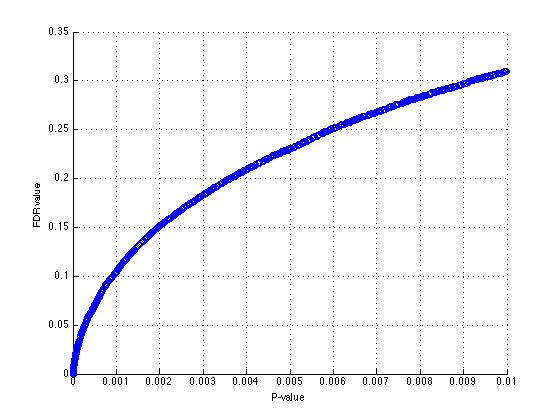
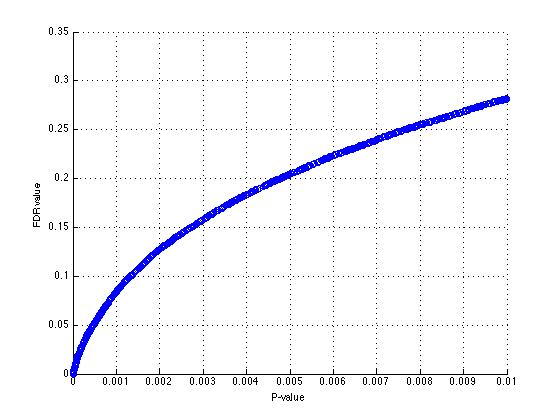
Matlab tutorial update

Changed region(s): [[0.4857, 0.1548, 0.9107, 0.4333], [0.1214, 0.4643, 0.3946, 0.8667], [0.3643, 0.3714, 0.4857, 0.4952]]

diff --git a/html/kruX_tutorial_matlab.html b/html/kruX_tutorial_matlab.html
@@ -6,7 +6,7 @@
    <!--
 This HTML was auto-generated from MATLAB code.
 To make changes, update the MATLAB code and republish this document.
-      --><title>kruX Tutorial</title><meta name="generator" content="MATLAB 8.0"><link rel="schema.DC" href="http://purl.org/dc/elements/1.1/"><meta name="DC.date" content="2013-06-21"><meta name="DC.source" content="kruX_tutorial_matlab.m"><style type="text/css">
+      --><title>kruX Tutorial</title><meta name="generator" content="MATLAB 8.0"><link rel="schema.DC" href="http://purl.org/dc/elements/1.1/"><meta name="DC.date" content="2013-06-22"><meta name="DC.source" content="kruX_tutorial_matlab.m"><style type="text/css">
 html,body,div,span,applet,object,iframe,h1,h2,h3,h4,h5,h6,p,blockquote,pre,a,abbr,acronym,address,big,cite,code,del,dfn,em,font,img,ins,kbd,q,s,samp,small,strike,strong,sub,sup,tt,var,b,u,i,center,dl,dt,dd,ol,ul,li,fieldset,form,label,legend,table,caption,tbody,tfoot,thead,tr,th,td{margin:0;padding:0;border:0;outline:0;font-size:100%;vertical-align:baseline;background:transparent}body{line-height:1}ol,ul{list-style:none}blockquote,q{quotes:none}blockquote:before,blockquote:after,q:before,q:after{content:'';content:none}:focus{outine:0}ins{text-decoration:none}del{text-decoration:line-through}table{border-collapse:collapse;border-spacing:0}
 
 html { min-height:100%; margin-bottom:1px; }
@@ -65,16 +65,22 @@ table td { padding:7px 5px; text-align:left; vertical-align:top; border:1px soli
 
 
 
-  </style></head><body><div class="content"><h1>kruX Tutorial</h1><!--introduction--><p>This webpage and its associated m-script (<tt>kruX_tutorial_matlab.m</tt>) illustrate the various features of kruX. Please make sure that you've added the folder were you downloaded the kruX source code to your <a href="http://www.mathworks.co.uk/help/matlab/ref/addpath.html">Matlab search path</a> before you attempt to run any of the code that follows.</p><!--/introduction--><h2>Contents</h2><div><ul><li><a href="#1">Data import</a></li><li><a href="#4">Testing all marker - gene combinations at once</a></li><li><a href="#10">Sliced data</a></li><li><a href="#15">Empirical FDR correction</a></li><li><a href="#24">kruX is exact</a></li><li><a href="#27">kruX handles missing data</a></li><li><a href="#32">kruX is fast</a></li><li><a href="#37">Goodbye</a></li></ul></div><h2>Data import<a name="1"></a></h2><p>We use Matlab's built-in function to import data. This can also be done via the GUI if you prefer.</p><p>Gene expression data</p><pre class="codeinput">dat = importdata(<span class="string">'kruX_testData_expression.txt'</span>);
+  </style></head><body><div class="content"><h1>kruX Tutorial</h1><!--introduction--><p>This webpage and its associated m-script (<tt>kruX_tutorial_matlab.m</tt>) illustrate the various features of kruX. Please make sure that you've added the folder were you downloaded the kruX source code to your <a href="http://www.mathworks.co.uk/help/matlab/ref/addpath.html">Matlab search path</a> before you attempt to run any of the code that follows.</p><!--/introduction--><h2>Contents</h2><div><ul><li><a href="#1">Data import</a></li><li><a href="#5">Testing all marker - gene combinations at once</a></li><li><a href="#12">Sliced data</a></li><li><a href="#17">Empirical FDR correction</a></li><li><a href="#27">kruX is exact</a></li><li><a href="#30">kruX handles missing data</a></li><li><a href="#36">kruX is fast</a></li><li><a href="#41">Goodbye</a></li></ul></div><h2>Data import<a name="1"></a></h2><p>kruX expects expression and genotype data in the form of numeric arrays where rows represent genes (or more generally any kind of continuous variables) or genetic markers (or more generally any kind of discrete grouping variables), and columns represent samples. Needless to say, it is imperative that samples are ordered identically in both expression and genotype data matrices. A set of test data in plain text format is included with kruX. We use Matlab's built-in function to import these data (this can also be done via the GUI if you prefer):</p><p>Gene expression data:</p><pre class="codeinput">dat = importdata(<span class="string">'kruX_testData_expression.txt'</span>);
 expression = dat.data;
-samples = dat.textdata(1,2:end);
+samples_expr = dat.textdata(1,2:end);
 genes = dat.textdata(2:end,1);
-</pre><p>Marker genotype data</p><pre class="codeinput">dat = importdata(<span class="string">'kruX_testData_genotype.txt'</span>);
+</pre><p>Marker genotype data:</p><pre class="codeinput">dat = importdata(<span class="string">'kruX_testData_genotype.txt'</span>);
 genotype = dat.data;
-samples = dat.textdata(1,2:end);
+samples_geno = dat.textdata(1,2:end);
 markers = dat.textdata(2:end,1);
 clear <span class="string">dat</span>;
-</pre><h2>Testing all marker - gene combinations at once<a name="4"></a></h2><p>Our test data set is small enough that all combinations fit in memory. Let's get all pairs with P-value below 0.01:</p><pre class="codeinput">Pcut = 1e-2;
+</pre><p>Are the sample sets identical?</p><pre class="codeinput">sum(~strcmp(samples_expr,samples_geno))
+</pre><pre class="codeoutput">
+ans =
+
+     0
+
+</pre><h2>Testing all marker - gene combinations at once<a name="5"></a></h2><p>Our test data set is small enough that all combinations fit in memory. Let's get all pairs with P-value below 0.01:</p><pre class="codeinput">Pcut = 1e-2;
 [I,J,P,S,df] = kruX(expression,genotype,Pcut);
 </pre><p>The previous command assumes that the Statistics Toolbox is installed. If this isn't the case, we can still compute the test statistics and P-values, but no correction for ties in the expression data will be made. To call kruX in this mode, cutoffs on the chi-square test statistic for all relevant degrees of freedom need to be supplied instead of a P-value cutoff. The cutoff corresponding to P&lt;=0.01 for markers with 1 degree of freedom is</p><pre class="codeinput">Scut = chi2inv(1-Pcut,1);
 </pre><p>(but note that chi2inv itself is part of the Statistics Toolbox so without it, you'll have to look up the cutoff values somewhere else).</p><pre class="codeinput">[I2,J2,P2,S2,df2] = kruX(expression,genotype,Scut);
@@ -89,24 +95,24 @@ ans =
 xlabel(<span class="string">'KW test statistics with corrections for tied data.'</span>);
 ylabel(<span class="string">'KW test statistics without corrections for tied data.'</span>);
 grid
-</pre><img vspace="5" hspace="5" src="kruX_tutorial_matlab_01.png" alt=""> <h2>Sliced data<a name="10"></a></h2><p>For dense genome-wide data in human or other higher organisms, the number of markers and expression traits is usually too large to run kruX in one go (kruX needs to fit a matrix of size (number of markers) x (number of genes) into memory).  The solution is to slice the genotype data into manageable chunks. To let kruX do all the slicing for you, use the call</p><pre class="codeinput">slice = 100;
+</pre><img vspace="5" hspace="5" src="kruX_tutorial_matlab_01.png" alt=""> <p>If your expression data consists of discrete or ordinal data, correcting for ties will evidently become essential.</p><h2>Sliced data<a name="12"></a></h2><p>For dense genome-wide data in human or other higher organisms, the number of markers and expression traits is usually too large to run kruX in one go (kruX needs to fit a matrix of size (number of markers) x (number of genes) into memory).  The solution is to slice the genotype data into manageable chunks. We can tell kruX to divide the genotype data into chunks of markers of size 'slice' and compute the statistics for each chunk serially:</p><pre class="codeinput">slice = 100;
 [I3,J3,P3,S3,df3] = kruX(expression,genotype,Pcut,slice);
-</pre><p>The end result is of course the same</p><pre class="codeinput">norm(S3-S)
+</pre><p>The end result is of course the same as before:</p><pre class="codeinput">norm(S3-S)
 </pre><pre class="codeoutput">
 ans =
 
      0
 
-</pre><p>In this case the genotype data is divided in chunks of 'slice' markers and the statistics for each chunk are computed serially. For big datasets it will be much faster to run separate chunks in parallel. To compute the statistics for one particular data chunch of size 'slice' starting at marker 'start', use</p><pre class="codeinput">slice = 100;
+</pre><p>For big datasets it will be much faster to run separate chunks in parallel. To compute the statistics for one particular data chunk of size 'slice' starting at marker 'start', use</p><pre class="codeinput">slice = 100;
 start = 701;
 [I4,J4,P4,S4,df4] = kruX(expression,genotype,Pcut,slice,start);
-</pre><p>Again producing the same result:</p><pre class="codeinput">norm(S4-S(J&gt;=start &amp; J&lt;start+slice))
+</pre><p>Again producing the same result as before:</p><pre class="codeinput">norm(S4-S(J&gt;=start &amp; J&lt;start+slice))
 </pre><pre class="codeoutput">
 ans =
 
      0
 
-</pre><p>You will have to write your own wrapper to launch different slices on different processors and combine their outputs.</p><h2>Empirical FDR correction<a name="15"></a></h2><p>To assess the statistical significance of our findings, we need to correct for multiple testing. To account for the myriad of correlations in genome-wide data, corecting via an empirical null distribution is the way to go. We will calculate a null distribution from 10 random permutations of the data.</p><pre class="codeinput">nrand = 10;
+</pre><p>You will have to write your own wrapper to launch different slices on different processors and combine their outputs.</p><h2>Empirical FDR correction<a name="17"></a></h2><p>To assess the statistical significance of our findings, we need to correct for multiple testing. To account for the myriad of correlations in genome-wide data, corecting via an empirical null distribution is the way to go. We will calculate a null distribution from 10 random permutations of the data.</p><pre class="codeinput">nrand = 10;
 Prand = cell(nrand,1);
 Irand = cell(nrand,1);
 Jrand = cell(nrand,1);
@@ -124,7 +130,7 @@ Pcut2 = fdrcut(P,FDR,FDRcut)
 </pre><pre class="codeoutput">
 Pcut2 =
 
-   9.0516e-04
+    0.0013
 
 </pre><p>Sometimes it is preferred to consider cis-pairs only (i.e. marker-gene pairs within a fixed genomic distance of each other). A function is provided to filter the relevant P-values if you have such a list of cis-pairs.</p><p>Let's create an artificial list of cis-pairs with for each gene its best marker</p><pre class="codeinput">[~,t] = sort(P);
 [Icis,m] = unique(I(t),<span class="string">'first'</span>);
@@ -139,7 +145,7 @@ Pcisrand = cell(nrand,1);
 xlabel(<span class="string">'cis-P-value'</span>);
 ylabel(<span class="string">'cis-FDR value'</span>);
 grid;
-</pre><img vspace="5" hspace="5" src="kruX_tutorial_matlab_03.png" alt=""> <h2>kruX is exact<a name="24"></a></h2><p>With the Statistics Toolbox installed, kruX returns the <b>exact</b> P-value for the Kruskal-Wallis test statistic.</p><p>Let's select 1000 pairs at random from our previous set and compute their Kruskal-Wallis P-value using the built-in function:</p><pre class="codeinput">numpairs = 1000;
+</pre><img vspace="5" hspace="5" src="kruX_tutorial_matlab_03.png" alt=""> <p>It is no coincidence that the slope in this figure is pretty much equal to one.</p><h2>kruX is exact<a name="27"></a></h2><p>With the Statistics Toolbox installed, kruX returns the <b>exact</b> P-value for the Kruskal-Wallis test statistic.</p><p>Let's select 1000 pairs at random from our previous set and compute their Kruskal-Wallis P-value using the built-in function:</p><pre class="codeinput">numpairs = 1000;
 t = randi(length(P),numpairs,1);
 Pkw = zeros(numpairs,1);
 Skw = zeros(numpairs,1);
@@ -153,25 +159,25 @@ ans =
 
    1.0e-13 *
 
-    0.5090    0.1253
+    0.4850    0.1150
 
-</pre><h2>kruX handles missing data<a name="27"></a></h2><p>kruX can deal with missing data in both expression and genotype data. In expression data, missing values should be indicated by NaN's; in genotype data, they can be indicated by NaN's or -1. Let's set some random entries in the data to missing values; for the genotyope data we limit the number of markers with missing data to keep computation time reasonable.</p><pre class="codeinput">mfreq = 0.01;
+</pre><h2>kruX handles missing data<a name="30"></a></h2><p>kruX can deal with missing data in both expression and genotype data. In expression data, missing values should be indicated by NaN's; in genotype data, they can be indicated by NaN's or -1. Let's set some random entries in the data to missing values; for the genotyope data we limit the number of markers with missing data to keep computation time reasonable.</p><pre class="codeinput">mfreq = 0.01;
 nmark = 100;
 nanE = logical(binornd(1,mfreq,size(expression)));
 expression_md = expression;
 expression_md(nanE) = nan;
 nanG = false(size(genotype));
-nanG(randi(numm,nmark,1),:) = logical(binornd(1,mfreq,nmark,size(genotype,2)));
+nanG(randi(size(genotype,1),nmark,1),:) = logical(binornd(1,mfreq,nmark,size(genotype,2)));
 genotype_md = genotype;
 genotype_md(nanG) = nan;
 </pre><p>Missing expression data has no effect on execution time:</p><pre class="codeinput">tic
 kruX(expression_md,genotype,Pcut);
 toc
-</pre><pre class="codeoutput">Elapsed time is 1.466368 seconds.
+</pre><pre class="codeoutput">Elapsed time is 1.459906 seconds.
 </pre><p>but a small number of missing genotype data already leads to a sharp increase in computational cost:</p><pre class="codeinput">tic
 [Imd,Jmd,Pmd,Smd,dfmd] = kruX(expression_md,genotype_md,Pcut);
 toc
-</pre><pre class="codeoutput">Elapsed time is 9.554019 seconds.
+</pre><pre class="codeoutput">Elapsed time is 9.376709 seconds.
 </pre><p>Let's compare to the built-in function for some of the markers with missing values:</p><pre class="codeinput">tf = ismember(Jmd,find(sum(isnan(genotype_md),2)));
 Imd2 = Imd(tf);
 Jmd2 = Jmd(tf);
@@ -190,9 +196,9 @@ ans =
 
    1.0e-13 *
 
-    0.4869    0.1036
+    0.4739    0.1182
 
-</pre><h2>kruX is fast<a name="32"></a></h2><p>If you hadn't already noticed by now, kruX is fast. For out test data the P-values for all 4 million pairs actually fit in memory. How long does it take to compute them?</p><pre class="codeinput">tic;
+</pre><p>Beware that kruX treats -1 in genotype data as missing values to be consistent with common genotype calling software, but that the built-in kruskalwallis function will treat -1's as a separate group.</p><h2>kruX is fast<a name="36"></a></h2><p>If you hadn't already noticed by now, kruX is fast. For our test data the P-values for all 4 million pairs actually fit in memory. How long does it take to compute them?</p><pre class="codeinput">tic;
 [Iall,Jall,Pall,Sall,dfall] = kruX(expression,genotype,1.0);
 tkruX = toc;
 </pre><p>The average time per test is</p><pre class="codeinput">numg = size(expression,1);
@@ -201,7 +207,7 @@ tkruXavg = tkruX/(numg*numm)
 </pre><pre class="codeoutput">
 tkruXavg =
 
-   9.5761e-07
+   9.4681e-07
 
 </pre><p>Let's average the built-in function over 1000 tests:</p><pre class="codeinput">t1by1 = zeros(numpairs,1);
 t = randi(length(P),numpairs,1);
@@ -220,9 +226,9 @@ t1by1avg =
 </pre><pre class="codeoutput">
 ans =
 
-   1.4008e+03
+   1.4164e+03
 
-</pre><p>times faster than performing all tests one-by-one.</p><h2>Goodbye<a name="37"></a></h2><p>May kruX help you get through the crux of your eQTL data analysis and <a href="http://www.roslin.ed.ac.uk/tom-michoel/contact-details/">do get in touch</a> if you need any further help.</p><p>
+</pre><p>times faster than performing all tests one-by-one.</p><h2>Goodbye<a name="41"></a></h2><p>May kruX help you solve the crux of your eQTL data analysis and <a href="http://www.roslin.ed.ac.uk/tom-michoel/contact-details/">do get in touch</a> if you need any further help.</p><p>
 <p style="text-align:right">
 The kruX Team<br/>
 <i>Jianlong Qi</i>,
@@ -239,21 +245,30 @@ The kruX Team<br/>
 % before you attempt to run any of the code that follows.
 
 %% Data import
-% We use Matlab's built-in function to import data. This can also be done
-% via the GUI if you prefer.
+% kruX expects expression and genotype data in the form of numeric arrays
+% where rows represent genes (or more generally any kind of continuous
+% variables) or genetic markers (or more generally any kind of
+% discrete grouping variables), and columns represent samples. Needless to
+% say, it is imperative that samples are ordered identically in both
+% expression and genotype data matrices. A set of test data in plain text
+% format is included with kruX. We use Matlab's built-in function to import
+% these data (this can also be done via the GUI if you prefer):
 %%
-% Gene expression data
+% Gene expression data:
 dat = importdata('kruX_testData_expression.txt');
 expression = dat.data;
-samples = dat.textdata(1,2:end);
+samples_expr = dat.textdata(1,2:end);
 genes = dat.textdata(2:end,1);
 %%
-% Marker genotype data
+% Marker genotype data:
 dat = importdata('kruX_testData_genotype.txt');
 genotype = dat.data;
-samples = dat.textdata(1,2:end);
+samples_geno = dat.textdata(1,2:end);
 markers = dat.textdata(2:end,1);
 clear dat;
+%%
+% Are the sample sets identical?
+sum(~strcmp(samples_expr,samples_geno))
 
 %% Testing all marker - gene combinations at once
 % Our test data set is small enough that all combinations fit in memory.
@@ -287,29 +302,32 @@ scatter(S(ix1(1:100:end)),S2(ix2(1:100:end)));
 xlabel('KW test statistics with corrections for tied data.');
 ylabel('KW test statistics without corrections for tied data.');
 grid
+%%
+% If your expression data consists of discrete or ordinal data, correcting
+% for ties will evidently become essential.
 
 %% Sliced data
 % For dense genome-wide data in human or other higher organisms, the number
 % of markers and expression traits is usually too large to run kruX in one
 % go (kruX needs to fit a matrix of size (number of markers) x (number of
 % genes) into memory).  The solution is to slice the genotype data into
-% manageable chunks. To let kruX do all the slicing for you, use the call  
+% manageable chunks. We can tell kruX to divide the genotype data into
+% chunks of markers of size 'slice' and compute the statistics for each
+% chunk serially:
 slice = 100;
 [I3,J3,P3,S3,df3] = kruX(expression,genotype,Pcut,slice);
 %%
-% The end result is of course the same
+% The end result is of course the same as before:
 norm(S3-S)
 %%
-% In this case the genotype data is divided in chunks of 'slice' markers
-% and the statistics for each chunk are computed serially. For big datasets
-% it will be much faster to run separate chunks in parallel. To compute
-% the statistics for one particular data chunch of size 'slice' starting at
-% marker 'start', use  
+% For big datasets it will be much faster to run separate chunks in
+% parallel. To compute the statistics for one particular data chunk of
+% size 'slice' starting at marker 'start', use  
 slice = 100;
 start = 701;
 [I4,J4,P4,S4,df4] = kruX(expression,genotype,Pcut,slice,start);
 %%
-% Again producing the same result:
+% Again producing the same result as before:
 norm(S4-S(J>=start & J<start+slice))
 %%
 % You will have to write your own wrapper to launch different slices on
@@ -375,6 +393,9 @@ scatter(Pcis,FDRcis);
 xlabel('cis-P-value');
 ylabel('cis-FDR value');
 grid;
+%%
+% It is no coincidence that the slope in this figure is pretty much equal
+% to one.
 
 %% kruX is exact
 % With the Statistics Toolbox installed, kruX returns the *exact* P-value
@@ -407,7 +428,7 @@ nanE = logical(binornd(1,mfreq,size(expression)));
 expression_md = expression;
 expression_md(nanE) = nan;
 nanG = false(size(genotype));
-nanG(randi(numm,nmark,1),:) = logical(binornd(1,mfreq,nmark,size(genotype,2)));
+nanG(randi(size(genotype,1),nmark,1),:) = logical(binornd(1,mfreq,nmark,size(genotype,2)));
 genotype_md = genotype;
 genotype_md(nanG) = nan;
 %%
@@ -439,9 +460,13 @@ end
 %%
 % The result is still exact:
 [max(abs((Pkw-Pmd2(t))./Pkw)) max(abs((Skw-Smd2(t))./Skw))]
+%%
+% Beware that kruX treats -1 in genotype data as missing values to be
+% consistent with common genotype calling software, but that the built-in
+% kruskalwallis function will treat -1's as a separate group.
 
 %% kruX is fast
-% If you hadn't already noticed by now, kruX is fast. For out test data the
+% If you hadn't already noticed by now, kruX is fast. For our test data the
 % P-values for all 4 million pairs actually fit in memory. How long does it
 % take to compute them?  
 tic;
@@ -466,10 +491,10 @@ t1by1avg = mean(t1by1)
 % So in this particular case, kruX is about
 t1by1avg/tkruXavg
 %%
-% faster than performing all tests one-by-one.
+% times faster than performing all tests one-by-one.
 
 %% Goodbye
-% May kruX help you get through the crux of your eQTL data analysis and 
+% May kruX help you solve the crux of your eQTL data analysis and 
 % <http://www.roslin.ed.ac.uk/tom-michoel/contact-details/ do get
 % in touch> if you need any further help.
 %

diff --git a/test/kruX_tutorial_matlab.m b/test/kruX_tutorial_matlab.m
@@ -6,21 +6,30 @@
 % before you attempt to run any of the code that follows.
 
 %% Data import
-% We use Matlab's built-in function to import data. This can also be done
-% via the GUI if you prefer.
+% kruX expects expression and genotype data in the form of numeric arrays
+% where rows represent genes (or more generally any kind of continuous
+% variables) or genetic markers (or more generally any kind of
+% discrete grouping variables), and columns represent samples. Needless to
+% say, it is imperative that samples are ordered identically in both
+% expression and genotype data matrices. A set of test data in plain text
+% format is included with kruX. We use Matlab's built-in function to import
+% these data (this can also be done via the GUI if you prefer):
 %%
-% Gene expression data
+% Gene expression data:
 dat = importdata('kruX_testData_expression.txt');
 expression = dat.data;
-samples = dat.textdata(1,2:end);
+samples_expr = dat.textdata(1,2:end);
 genes = dat.textdata(2:end,1);
 %%
-% Marker genotype data
+% Marker genotype data:
 dat = importdata('kruX_testData_genotype.txt');
 genotype = dat.data;
-samples = dat.textdata(1,2:end);
+samples_geno = dat.textdata(1,2:end);
 markers = dat.textdata(2:end,1);
 clear dat;
+%%
+% Are the sample sets identical?
+sum(~strcmp(samples_expr,samples_geno))
 
 %% Testing all marker - gene combinations at once
 % Our test data set is small enough that all combinations fit in memory.
@@ -54,29 +63,32 @@ scatter(S(ix1(1:100:end)),S2(ix2(1:100:end)));
 xlabel('KW test statistics with corrections for tied data.');
 ylabel('KW test statistics without corrections for tied data.');
 grid
+%%
+% If your expression data consists of discrete or ordinal data, correcting
+% for ties will evidently become essential.
 
 %% Sliced data
 % For dense genome-wide data in human or other higher organisms, the number
 % of markers and expression traits is usually too large to run kruX in one
 % go (kruX needs to fit a matrix of size (number of markers) x (number of
 % genes) into memory).  The solution is to slice the genotype data into
-% manageable chunks. To let kruX do all the slicing for you, use the call  
+% manageable chunks. We can tell kruX to divide the genotype data into
+% chunks of markers of size 'slice' and compute the statistics for each
+% chunk serially:
 slice = 100;
 [I3,J3,P3,S3,df3] = kruX(expression,genotype,Pcut,slice);
 %%
-% The end result is of course the same
+% The end result is of course the same as before:
 norm(S3-S)
 %%
-% In this case the genotype data is divided in chunks of 'slice' markers
-% and the statistics for each chunk are computed serially. For big datasets
-% it will be much faster to run separate chunks in parallel. To compute
-% the statistics for one particular data chunch of size 'slice' starting at
-% marker 'start', use  
+% For big datasets it will be much faster to run separate chunks in
+% parallel. To compute the statistics for one particular data chunk of
+% size 'slice' starting at marker 'start', use  
 slice = 100;
 start = 701;
 [I4,J4,P4,S4,df4] = kruX(expression,genotype,Pcut,slice,start);
 %%
-% Again producing the same result:
+% Again producing the same result as before:
 norm(S4-S(J>=start & J<start+slice))
 %%
 % You will have to write your own wrapper to launch different slices on
@@ -142,6 +154,9 @@ scatter(Pcis,FDRcis);
 xlabel('cis-P-value');
 ylabel('cis-FDR value');
 grid;
+%%
+% It is no coincidence that the slope in this figure is pretty much equal
+% to one.
 
 %% kruX is exact
 % With the Statistics Toolbox installed, kruX returns the *exact* P-value
@@ -174,7 +189,7 @@ nanE = logical(binornd(1,mfreq,size(expression)));
 expression_md = expression;
 expression_md(nanE) = nan;
 nanG = false(size(genotype));
-nanG(randi(numm,nmark,1),:) = logical(binornd(1,mfreq,nmark,size(genotype,2)));
+nanG(randi(size(genotype,1),nmark,1),:) = logical(binornd(1,mfreq,nmark,size(genotype,2)));
 genotype_md = genotype;
 genotype_md(nanG) = nan;
 %%
@@ -206,9 +221,13 @@ end
 %%
 % The result is still exact:
 [max(abs((Pkw-Pmd2(t))./Pkw)) max(abs((Skw-Smd2(t))./Skw))]
+%%
+% Beware that kruX treats -1 in genotype data as missing values to be
+% consistent with common genotype calling software, but that the built-in
+% kruskalwallis function will treat -1's as a separate group.
 
 %% kruX is fast
-% If you hadn't already noticed by now, kruX is fast. For out test data the
+% If you hadn't already noticed by now, kruX is fast. For our test data the
 % P-values for all 4 million pairs actually fit in memory. How long does it
 % take to compute them?  
 tic;
@@ -236,7 +255,7 @@ t1by1avg/tkruXavg
 % times faster than performing all tests one-by-one.
 
 %% Goodbye
-% May kruX help you get through the crux of your eQTL data analysis and 
+% May kruX help you solve the crux of your eQTL data analysis and 
 % <http://www.roslin.ed.ac.uk/tom-michoel/contact-details/ do get
 % in touch> if you need any further help.
 %
